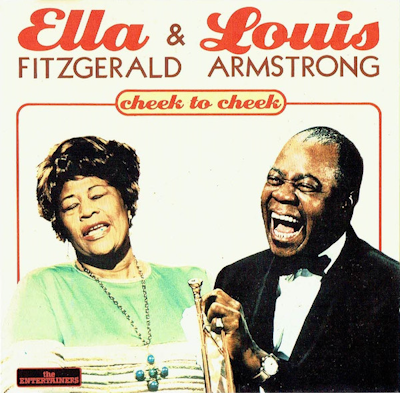
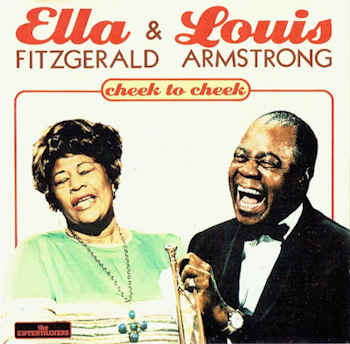
fix: change png size and playList order

diff --git a/index.js b/index.js
@@ -1,9 +1,9 @@
 let isPlay = false;
 let playNum = 0;
-let playList = ['./assets/audio/beyonce (1).mp3', './assets/audio/dontstartnow.mp3', './assets/audio/Cheek_to_Cheek.mp3', './assets/audio/Go_Down_Moses.mp3', './assets/audio/What_A_Wonderful_World.mp3'];
-let coverList = ['./assets/images/lemonade.png', './assets/images/dontstartnow.png', './assets/images/cheek-to-cheek.png', './assets/images/go_down.png', './assets/images/wonderfull_world.png'];
-let singerList = ['Beyonce', 'Dua Lipa', 'Louis Armstrong', 'Louis Armstrong', 'Louis Armstrong'];
-let titleList =['Don\'t hurt yourself', 'Don\'t stop now', 'Cheek to Cheek', 'Go Down Moses', 'What A Wonderful World'];
+let playList = ['./assets/audio/Cheek_to_Cheek.mp3', './assets/audio/Go_Down_Moses.mp3', './assets/audio/What_A_Wonderful_World.mp3','./assets/audio/beyonce (1).mp3', './assets/audio/dontstartnow.mp3'];
+let coverList = ['./assets/images/cheek-to-cheek.png', './assets/images/go_down.png', './assets/images/wonderfull_world.png', './assets/images/lemonade.png', './assets/images/dontstartnow.png'];
+let singerList = ['Louis Armstrong', 'Louis Armstrong', 'Louis Armstrong', 'Beyonce', 'Dua Lipa'];
+let titleList =['Cheek to Cheek', 'Go Down Moses', 'What A Wonderful World', 'Don\'t hurt yourself', 'Don\'t stop now'];
 
 const audio = document.querySelector('audio');
 const playButton = document.querySelector('.play-button');

diff --git a/index.html b/index.html
@@ -8,20 +8,20 @@
   <title>Document</title>
 </head>
 <body>
-    <img src="./assets/images/lemonade.png" class="background">
-    <audio src="./assets/audio/beyonce (1).mp3" class="music">
+    <img src="./assets/images/cheek-to-cheek.png" class="background">
+    <audio src="./assets/audio/Cheek_to_Cheek.mp3" class="music">
     </audio>
     <div class="container">
         <div class="audio__cover">
-          <img src="./assets/images/lemonade.png">
+          <img src="./assets/images/cheek-to-cheek.png">
         </div>
         <div class="audio__player">
           <div class="controls">
             <div class="buttons">
             <div class="play-button"></div>
             <div class="info">
-              <p class="singer">Beyonce</p>
-              <p class="song">Don't hurt yourself</p>
+              <p class="singer">Louis Armstrong</p>
+              <p class="song">Cheek to Cheek</p>
             </div>
             <div class="ctrl_button">
               <img class="next" src="./assets/icons/forward.png">
